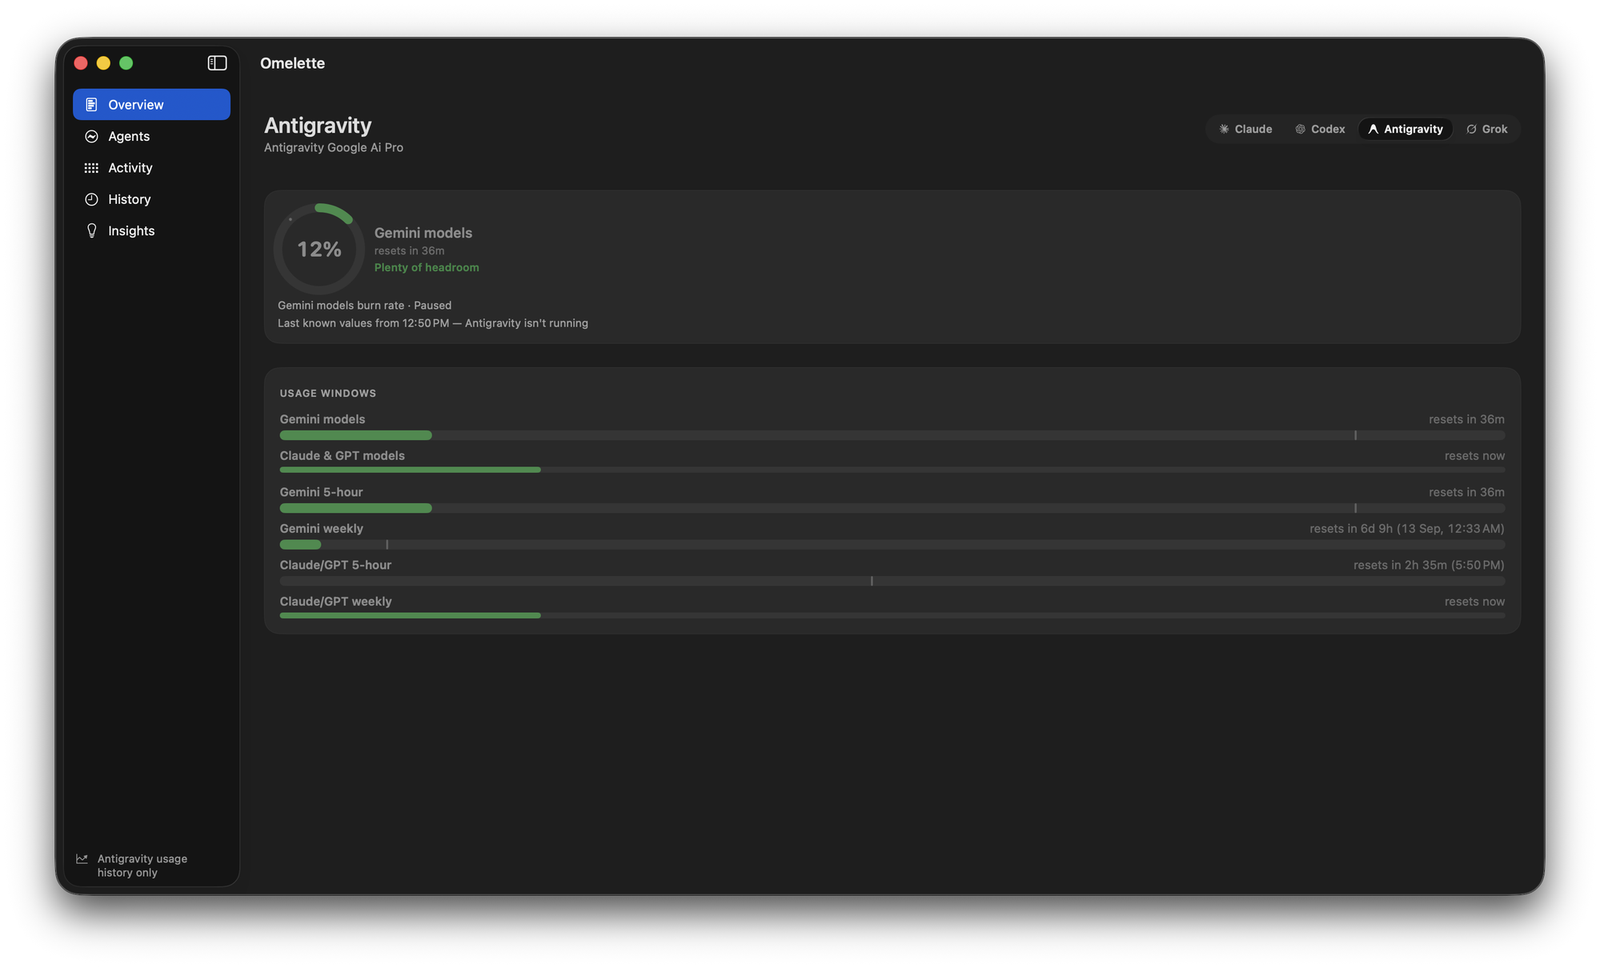
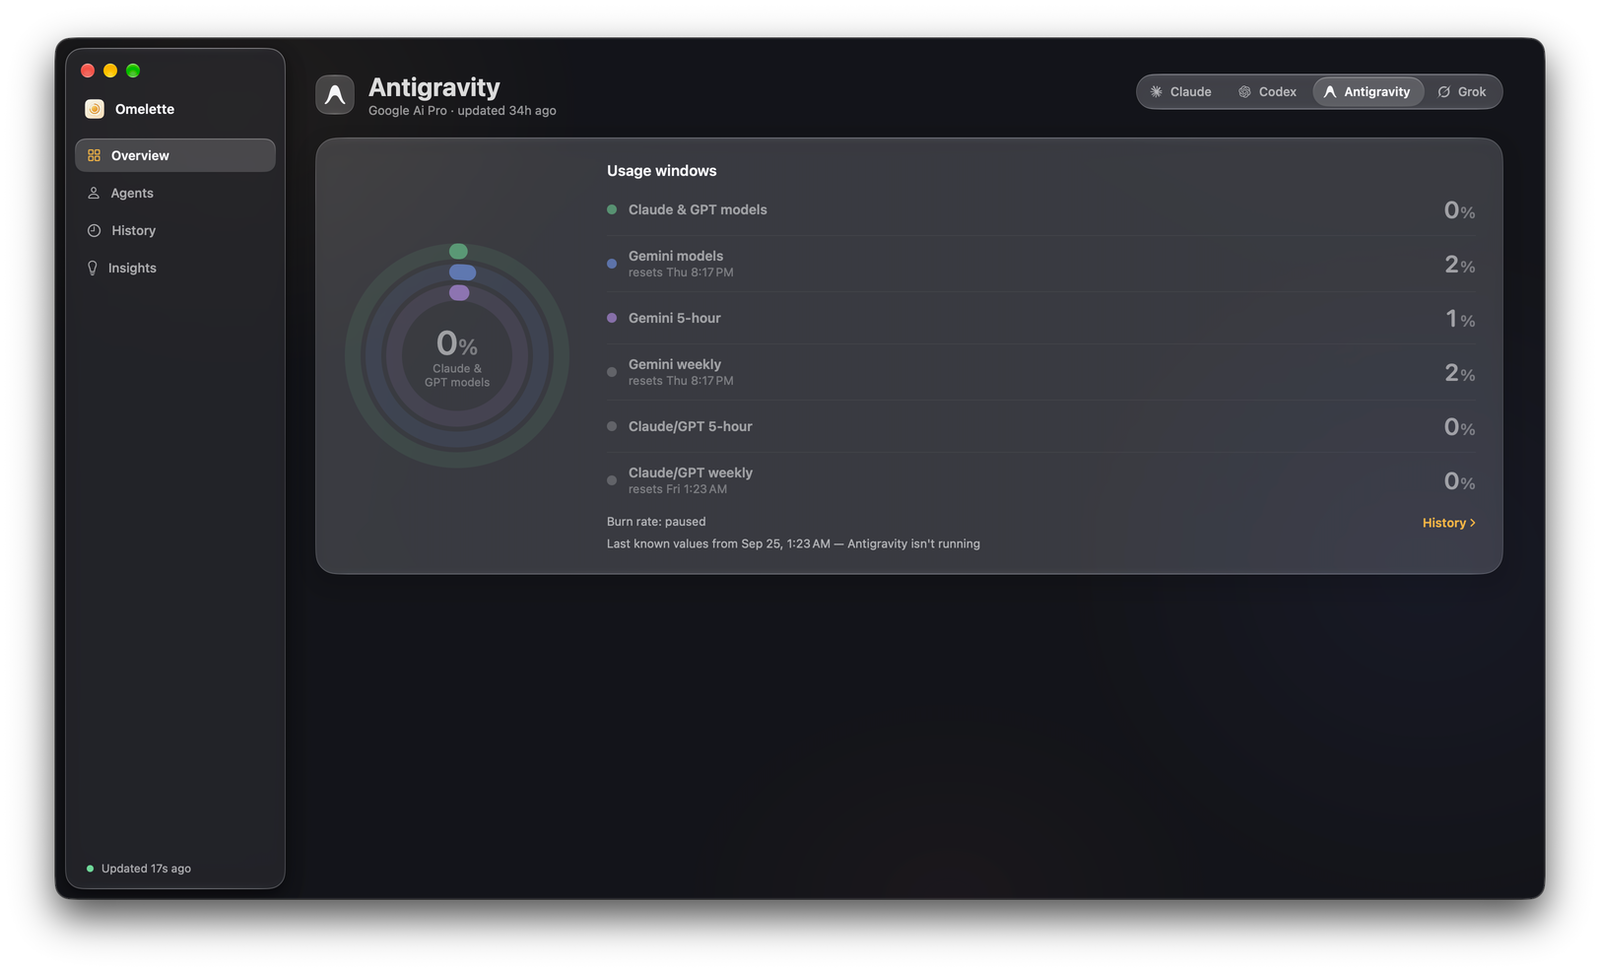
README: 3.0 screenshots
Every picture retaken on 3.0.0: the popover on glass (All with a session
that needs you, and each provider), the dashboard's Overview per provider,
History in Cost and Tokens, an open chat, Antigravity's quota history,
Agents and Insights. The Activity picture goes with the tab; the captions
and alt texts describe what 3.0 shows. Chat titles are blurred.

Claude-Session: https://claude.ai/code/session_013fBYuPqFyH6qKR5tcnXc8X

diff --git a/README.md b/README.md
@@ -36,7 +36,7 @@ two disclosures underneath.
 <table>
   <tr>
     <td width="36%"><img src="docs/screenshots/popover-all-needs-you.png" alt="The popover: every provider on one tab, a session waiting for your Allow / Deny, one working, one idle"></td>
-    <td width="64%"><img src="docs/screenshots/dashboard-overview-claude.png" alt="Dashboard Overview for Claude: session ring, usage windows with exact reset times, Tokens today split by type, CLI costs"></td>
+    <td width="64%"><img src="docs/screenshots/dashboard-overview-claude.png" alt="Dashboard Overview for Claude: concentric rings per window with reset times, today's CLI cost by model, Tokens today against cost"></td>
   </tr>
   <tr>
     <td>The popover, All tab. An agent asked a question, so its row got Allow / Deny.</td>
@@ -71,21 +71,21 @@ two disclosures underneath.
   <tr><td>Overview, Codex</td><td>Overview, Grok</td></tr>
   <tr>
     <td><img src="docs/screenshots/dashboard-overview-antigravity.png" alt="Overview for Antigravity while it is closed: last known values, burn rate paused"></td>
-    <td><img src="docs/screenshots/dashboard-history-tokens.png" alt="History in Tokens mode: stacked bars by type and a per-day table"></td>
+    <td><img src="docs/screenshots/dashboard-history-tokens.png" alt="History in Tokens mode: stacked bars by type with tooltips, the chats under them"></td>
   </tr>
   <tr><td>Overview, Antigravity closed: last known values</td><td>History, Tokens mode</td></tr>
   <tr>
-    <td><img src="docs/screenshots/dashboard-history-cost.png" alt="History in Cost mode with the API-equivalent note"></td>
+    <td><img src="docs/screenshots/dashboard-history-cost.png" alt="History in Cost mode: cost per day and the chats, with the API-equivalent note"></td>
     <td><img src="docs/screenshots/dashboard-quota-history-antigravity.png" alt="Quota history for Antigravity: every window as a line, daily peaks"></td>
   </tr>
   <tr><td>History, Cost mode</td><td>Quota history for a provider without a token log</td></tr>
   <tr>
-    <td><img src="docs/screenshots/dashboard-activity.png" alt="Activity heatmap, last 52 weeks"></td>
-    <td><img src="docs/screenshots/dashboard-agents.png" alt="Agents tab: live sessions with Allow / Deny, run history"></td>
+    <td><img src="docs/screenshots/dashboard-history-chat.png" alt="History, an open chat: where the money went by type, by model, by day, and its sub-agents"></td>
+    <td><img src="docs/screenshots/dashboard-agents.png" alt="Agents tab: the Sessions figure and the live sessions with Allow / Deny, full width"></td>
   </tr>
-  <tr><td>Activity</td><td>Agents: live sessions and run history</td></tr>
+  <tr><td>History: an open chat</td><td>Agents: live sessions</td></tr>
   <tr>
-    <td colspan="2"><img src="docs/screenshots/dashboard-insights.png" alt="Insights: what ran inside the current session window, week over week, biggest day"></td>
+    <td colspan="2"><img src="docs/screenshots/dashboard-insights.png" alt="Insights: the current session window by model and project, this week vs last, days at limit, daily average, biggest day, most-used model"></td>
   </tr>
   <tr><td colspan="2">Insights: what filled the current session window, ranked by project</td></tr>
 </table>
